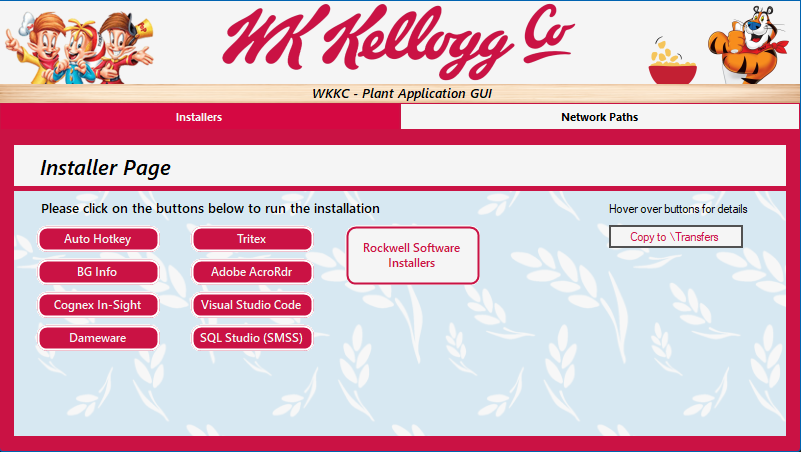
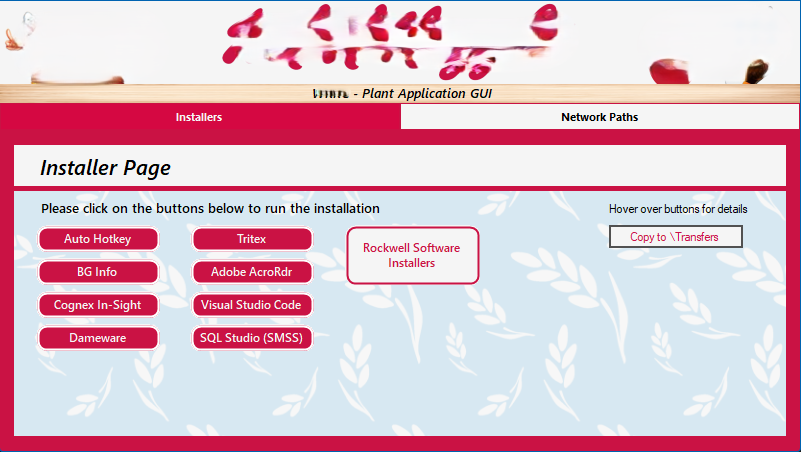
Project page update

diff --git a/assets/portfolio/DigiLocker-Portfolio.html b/assets/portfolio/DigiLocker-Portfolio.html
@@ -45,16 +45,20 @@
           <div class="portfolio-details-slider swiper">
             <div class="swiper-wrapper align-items-center">
 
-              <div class="swiper-slide">
-                <img src="../img/portfolio/KASH.png" width="100%" alt="">
+              <div class="swiper-slide align-content-center">
+                <img src="../img/portfolio/DigiLockerHomeScreen.png" width="80%" alt="">
               </div>
 
               <div class="swiper-slide">
-                <img src="../img/portfolio/KASHAutomation.png" width="100%" alt="">
+                <img src="../img/portfolio/DigiLockerInventory.png" width="80%" alt="">
               </div>
 
               <div class="swiper-slide">
-                <img src="../img/portfolio/KASHFixes.png" width="100%" alt="">
+                <img src="../img/portfolio/DigiLockerModal.png" width="80%" alt="">
+              </div>
+
+              <div class="swiper-slide">
+                <img src="../img/portfolio/DigiLockerReturnPin.png" width="80%" alt="">
               </div>
 
             </div>
@@ -72,17 +76,26 @@
           </ul>
 
           <p>
-            KASH is a powerful C# .NET Windows Form 4.8 application designed to simplify and automate
-            problem-solving and system configuration tasks. It hosts a collection of fully automated,
-            one-click scripts that address a wide range of issues, from common Windows problems to
-            specialized software configurations. KASH aims to streamline IT support processes and enhance
-            efficiency by providing a central hub for resolving various technical challenges.
+            The DigiLocker Portal is a React front-end with a Node.js(Express) back-end.
+            This web application was built for an iPad that will server as a one-stop solution
+            for employees engaging with a Smart Locker system at specific locations. The application
+            features a component based architecture with modern React hooks, specifically the useState and useEffect
+            hooks.
             <br>
             <br>
-            KASH includes a comprehensive set of scripts designed to diagnose and fix problems without
-            requiring any user interaction. These scripts cover a variety of scenarios, including Microsoft
-            Teams issues, Lexmark Printer errors, and more. Each script is coded to perform not only the
-            necessary fixes but also to clean up cache files and folders, ensuring a thorough resolution.
+            Users will sign in to the application, and an animation will play to sign them in quickly, and the home screen
+            will show (the first image in the slideshow). Administrators of the DigiLocker application have a custom-built
+            admin menu that will allow them to manage all sorts of features that were previously only available on a web UI
+            from the vendor of the Smart Locker.
+            <br>
+            <br>
+            There are numerous custom endpoints built to allow the front-end and back-end to communicate seamlessly thanks to Express.js.
+            There are also many custom functions created in the interest of end-to-end automation. This application hosts a complete API
+            solution for working with the Smart Locker. The application also communicates directly with Graph API so that it works in an
+            enterprise environment for the client.
+            <br>
+            <br>
+            <em>For Privacy and Copyright reasons, some content in the images will appear distorted.</em>
           </p>
         </div>
 

diff --git a/assets/portfolio/KASH-Portfolio.html b/assets/portfolio/KASH-Portfolio.html
@@ -46,15 +46,15 @@
               <div class="swiper-wrapper align-items-center">
 
                 <div class="swiper-slide">
-                  <img src="../img/portfolio/KASH.png" width="100%" alt="">
-                </div>
-
-                <div class="swiper-slide">
-                  <img src="../img/portfolio/KASHAutomation.png" width="100%" alt="">
+                  <img src="../img/portfolio/KASHHome.png" width="100%" alt="">
                 </div>
 
                 <div class="swiper-slide">
                   <img src="../img/portfolio/KASHFixes.png" width="100%" alt="">
+                </div>
+
+                <div class="swiper-slide">
+                  <img src="../img/portfolio/KASHLogin.png" width="90%" alt="">
                 </div>
 
               </div>
@@ -83,6 +83,9 @@
               requiring any user interaction. These scripts cover a variety of scenarios, including Microsoft
               Teams issues, Lexmark Printer errors, and more. Each script is coded to perform not only the
               necessary fixes but also to clean up cache files and folders, ensuring a thorough resolution.
+              <br>
+              <br>
+              <em>For privacy and copyright reasons, some content in the images will appear distorted.</em>
             </p>
           </div>
 

diff --git a/index.html b/index.html
@@ -566,7 +566,7 @@
 
         <div class="col-lg-4 col-md-6 portfolio-item filter-app">
           <div class="portfolio-wrap">
-            <img src="assets/img/portfolio/KASH.png" class="img-fluid" alt="">
+            <img src="assets/img/portfolio/KASHFixes.png" class="img-fluid" alt="">
             <div class="portfolio-info">
               <h4>KASH</h4>
               <p>KASH App</p>
@@ -579,7 +579,10 @@
 
         <div class="col-lg-4 col-md-6 portfolio-item filter-card filter-app">
           <div class="portfolio-wrap">
-            <img src="assets/img/portfolio/KASH.png" class="img-fluid" alt="">
+            <div class="DigiLocker_Flex">
+              <img src="assets/img/portfolio/DigiLockerHomeScreen.png" width="50%" class="img-fluid" alt="">
+              <img src="assets/img/portfolio/DigiLockerInventory.png" width="50%" class="img-fluid" alt="">
+            </div>
             <div class="portfolio-info">
               <h4>DigiLocker</h4>
               <p>Smart Locker Portal</p>

diff --git a/assets/portfolio/WKKC-Portfolio.html b/assets/portfolio/WKKC-Portfolio.html
@@ -80,6 +80,9 @@
               entire installation process through the execution of PowerShell scripts. These scripts not only
               install the software but also make intricate registry modifications and system configurations
               to ensure that the software operates correctly.
+              <br>
+              <br>
+              <em>For privacy and copyright reasons, some content in the images will appear distorted.</em>
             </p>
           </div>
 

diff --git a/assets/js/main.js b/assets/js/main.js
@@ -1,10 +1,3 @@
-/**
-* Template Name: Personal
-* Updated: Aug 30 2023 with Bootstrap v5.3.1
-* Template URL: https://bootstrapmade.com/personal-free-resume-bootstrap-template/
-* Author: BootstrapMade.com
-* License: https://bootstrapmade.com/license/
-*/
 (function() {
   "use strict";
   const select = (el, all = false) => {

diff --git a/assets/css/style.css b/assets/css/style.css
@@ -1525,3 +1525,7 @@ section .container {
     color: initial;
   }
 }
+
+.DigiLocker_Flex {
+  display: flex;
+}
